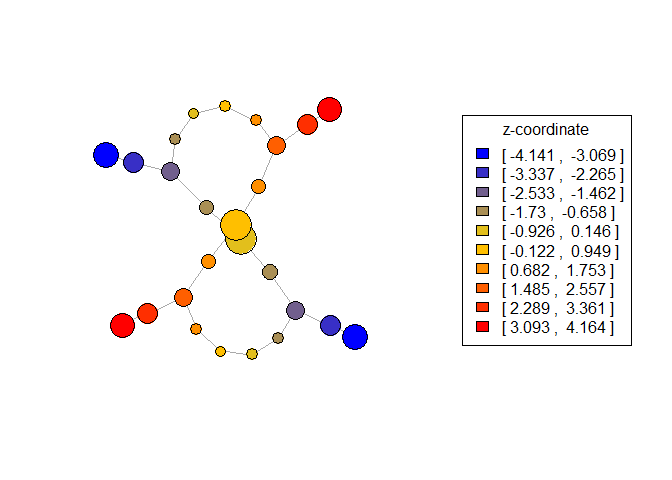
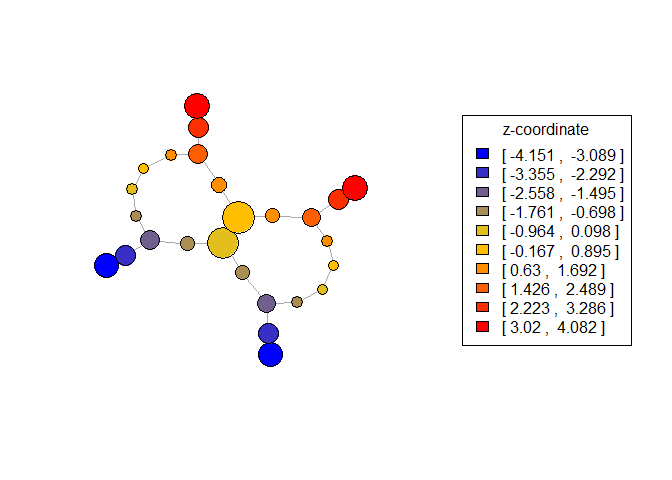
actually knit the readme

diff --git a/README.md b/README.md
@@ -149,10 +149,39 @@ eccentricity = apply(as.matrix(P.dist), 1, sum) / num_points
 num_bins = 10
 percent_overlap = 25
 
-xmapper = get_1D_mapper_data(P.data, projx, P.dist, num_bins, percent_overlap, "single")
-ymapper = get_1D_mapper_data(P.data, projy, P.dist, num_bins, percent_overlap, "single")
-zmapper = get_1D_mapper_data(P.data, projz, P.dist, num_bins, percent_overlap, "single")
-eccentricmapper = get_1D_mapper_data(P.data, eccentricity, P.dist, num_bins, percent_overlap, "single")
+# generate the cover
+xcover = create_width_balanced_cover(min(projx), max(projx), num_bins, percent_overlap)
+ycover = create_width_balanced_cover(min(projy), max(projy), num_bins, percent_overlap)
+zcover = create_width_balanced_cover(min(projz), max(projz), num_bins, percent_overlap)
+eccentriccover = create_width_balanced_cover(min(eccentricity),
+                                             max(eccentricity),
+                                             num_bins,
+                                             percent_overlap)
+
+# each of the "cover" elements will really be a function that checks if a data point lives in it
+xcovercheck = apply(xcover, 1, check_in_interval)
+ycovercheck = apply(ycover, 1, check_in_interval)
+zcovercheck = apply(zcover, 1, check_in_interval)
+eccentriccovercheck = apply(eccentriccover, 1, check_in_interval)
+
+xmapper = create_mapper_object(
+  data = P.data,
+  dists = P.dist,
+  filtered_data = projx,
+  cover_element_tests = xcovercheck,
+  method = "single"
+)
+ymapper = create_mapper_object(P.data, P.dist, projy, ycovercheck, "single")
+zmapper = create_mapper_object(P.data, P.dist, projz, zcovercheck, "single")
+eccentricmapper = create_mapper_object(P.data, P.dist, eccentricity, eccentriccovercheck, "single")
+
+# mappeR also has a built-in 1D mapper function that will do the above for you
+eccentricmapper = create_1D_mapper_object(P.data,
+                                          P.dist,
+                                          eccentricity,
+                                          num_bins,
+                                          percent_overlap,
+                                          "single")
 ```
 
 The vertices in each output graph below are colored according to the
